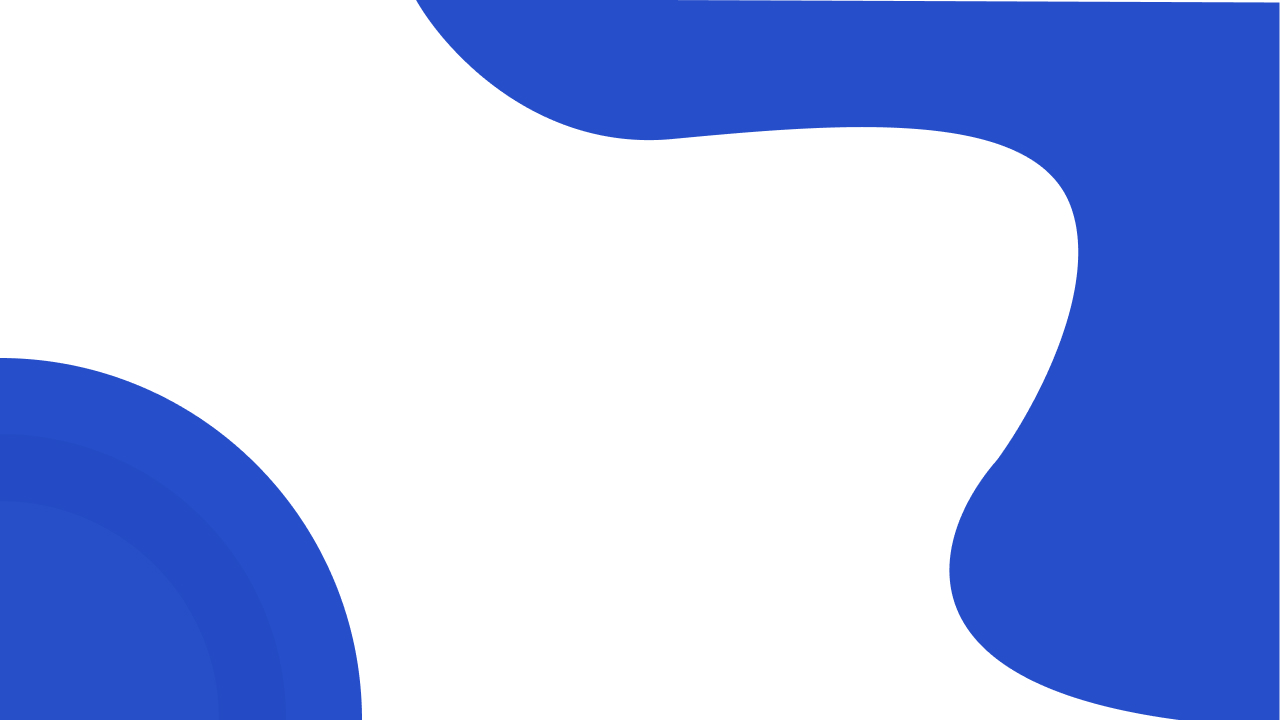
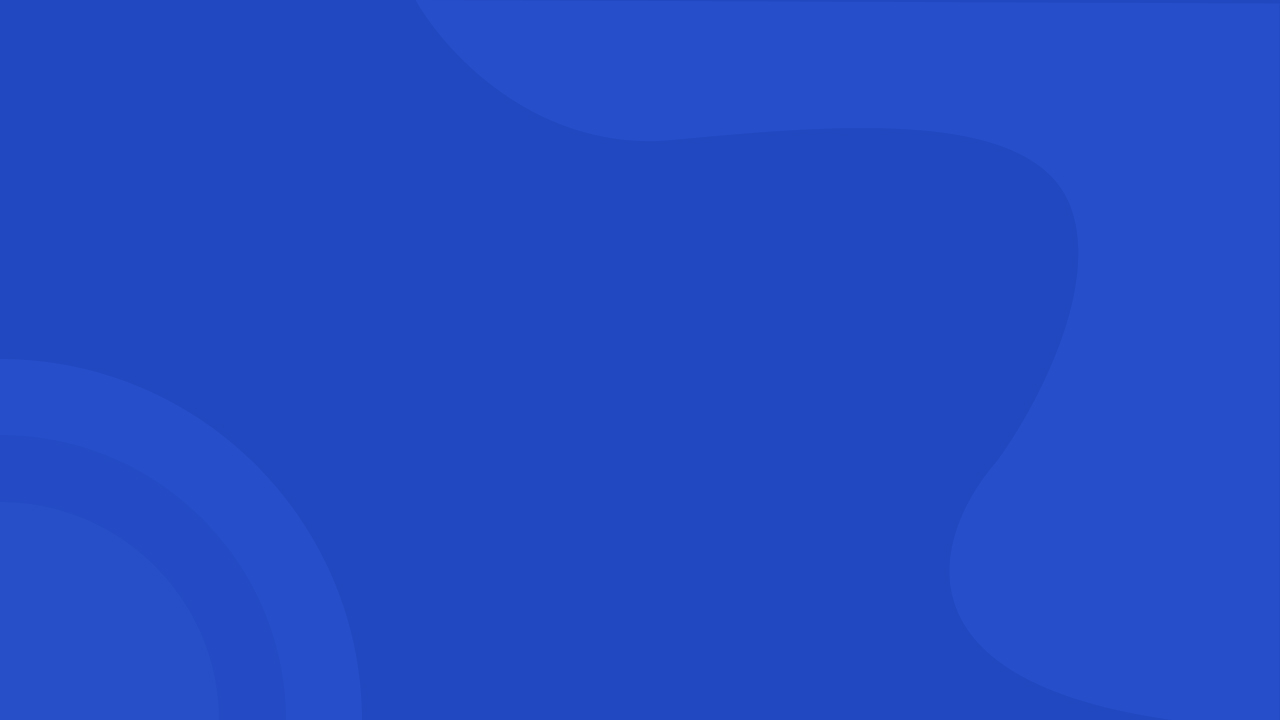
add check form

diff --git a/app/css/style.min.css b/app/css/style.min.css
@@ -1,1 +1,1 @@
-html{box-sizing:border-box}*,*::after,*::before{box-sizing:inherit}ul,ol{padding:0;list-style:none}body,h1,h2,h3,h4,h5,h6,p,ul,ol,li,figure,figcaption,blockquote,dl,dd{margin:0;font:inherit}li{list-style:none}img{max-width:100%;display:block}input,button,textarea,select{font:inherit;outline-color:rgba(0,0,0,0);padding:0}button{background-color:rgba(0,0,0,0);border:none;cursor:pointer;color:inherit}input{border:none;background-color:rgba(0,0,0,0);border:none;color:inherit}a{text-decoration:none;color:inherit;outline-color:rgba(0,0,0,0)}address{font-style:normal}body{font-size:16px;color:#fff;min-height:100vh;font-weight:400;background-color:#2148c0;font-family:"Raleway",sans-serif}.login,.register{height:100vh;background-image:url("../images/bg.png");background-position:center;background-size:cover;background-repeat:no-repeat;background-color:#2148c0}.register{background-color:#8e21c0}.container{margin:0 auto;padding:0 15px;max-width:300px;position:relative;top:50%;-webkit-transform:translateY(-50%);-ms-transform:translateY(-50%);transform:translateY(-50%);text-align:center}.title{font-size:72px;font-weight:700;text-transform:uppercase;margin-bottom:70px}.form{width:100%}.form__inner{margin:40px 0}.input{width:100%;padding:12px;padding-left:0;outline:rgba(0,0,0,0)}.input::-webkit-input-placeholder{text-transform:uppercase;font-size:14px;color:#fff;-webkit-transition:color .3s;transition:color .3s}.input::-moz-placeholder{text-transform:uppercase;font-size:14px;color:#fff;-moz-transition:color .3s;transition:color .3s}.input:-ms-input-placeholder{text-transform:uppercase;font-size:14px;color:#fff;-ms-transition:color .3s;transition:color .3s}.input::-ms-input-placeholder{text-transform:uppercase;font-size:14px;color:#fff;-ms-transition:color .3s;transition:color .3s}.input::placeholder{text-transform:uppercase;font-size:14px;color:#fff;-webkit-transition:color .3s;transition:color .3s}.input:focus::-webkit-input-placeholder{color:rgba(0,0,0,0)}.input:focus::-moz-placeholder{color:rgba(0,0,0,0)}.input:focus:-ms-input-placeholder{color:rgba(0,0,0,0)}.input:focus::-ms-input-placeholder{color:rgba(0,0,0,0)}.input:focus::placeholder{color:rgba(0,0,0,0)}.label{display:-webkit-box;display:-ms-flexbox;display:flex;-webkit-box-align:center;-ms-flex-align:center;align-items:center;border:1px solid #fff;border-radius:4px}.label:not(:last-child){margin-bottom:20px}.label::before{content:"";display:inline-block;background-position:center;background-repeat:no-repeat;background-size:contain;width:20px;height:20px;margin:12px;margin-right:19px}.label--name::before{background-image:url("../images/user.svg")}.label--pass::before{background-image:url("../images/lock.svg")}.label--email::before{background-image:url("../images/email.svg")}.btn{width:100%;padding:12px;text-align:center;background-color:#fff;border-radius:4px;color:#2148c0;margin-top:40px;margin-bottom:10px;font-weight:700;text-transform:uppercase}.link{display:-webkit-box;display:-ms-flexbox;display:flex;-webkit-box-align:center;-ms-flex-align:center;align-items:center;-webkit-transition:-webkit-transform .5s;transition:-webkit-transform .5s;transition:transform .5s;transition:transform .5s,-webkit-transform .5s}.link__icon{fill:#fff;margin-left:5px;opacity:0;-webkit-transition:opacity .5s;transition:opacity .5s}.link:hover{-webkit-transform:translateX(10px);-ms-transform:translateX(10px);transform:translateX(10px)}.link:hover .link__icon{opacity:1}.register .link{-webkit-box-pack:end;-ms-flex-pack:end;justify-content:flex-end}.register .link__icon{margin-right:5px;-webkit-transform:rotate(180deg);-ms-transform:rotate(180deg);transform:rotate(180deg)}.register .link:hover{-webkit-transform:translateX(-10px);-ms-transform:translateX(-10px);transform:translateX(-10px)}.register .link:hover .link__icon{opacity:1}
+html{box-sizing:border-box}*,*::after,*::before{box-sizing:inherit}ul,ol{padding:0;list-style:none}body,h1,h2,h3,h4,h5,h6,p,ul,ol,li,figure,figcaption,blockquote,dl,dd{margin:0;font:inherit}li{list-style:none}img{max-width:100%;display:block}input,button,textarea,select{font:inherit;outline-color:rgba(0,0,0,0);padding:0}button{background-color:rgba(0,0,0,0);border:none;cursor:pointer;color:inherit}input{border:none;background-color:rgba(0,0,0,0);border:none;color:inherit}a{text-decoration:none;color:inherit;outline-color:rgba(0,0,0,0)}address{font-style:normal}body{font-size:16px;color:#fff;min-height:100vh;font-weight:400;background-color:#2148c0;font-family:"Raleway",sans-serif}.wrapper{position:relative;background-position:center;background-size:cover;background-repeat:no-repeat;height:100vh;overflow:hidden}.wrapper::before,.wrapper::after{content:"";background-position:center;background-size:cover;background-repeat:no-repeat;position:absolute;width:100%;height:100%;z-index:-10;-webkit-transition:opacity .5s;transition:opacity .5s}.wrapper::before{background-image:url("../images/bg.jpg")}.wrapper::after{background-image:url("../images/bg2.jpg");opacity:0}.create-active::before{opacity:0}.create-active::after{opacity:1}.login,.register{height:100vh;position:absolute;top:0;left:50%;-webkit-transform:translateX(-50%);-ms-transform:translateX(-50%);transform:translateX(-50%);max-width:300px;width:100%;-webkit-transition:opacity .5s,-webkit-transform .5s;transition:opacity .5s,-webkit-transform .5s;transition:transform .5s,opacity .5s;transition:transform .5s,opacity .5s,-webkit-transform .5s}.container{margin:0 auto;padding:0 15px;max-width:300px;position:relative;top:50%;-webkit-transform:translateY(-50%);-ms-transform:translateY(-50%);transform:translateY(-50%);text-align:center}.title{font-size:72px;font-weight:700;text-transform:uppercase;margin-bottom:70px}.form{width:100%}.form__inner{margin:40px 0}.input{width:100%;padding:12px;padding-left:0;outline:rgba(0,0,0,0)}.input::-webkit-input-placeholder{text-transform:uppercase;font-size:14px;color:#fff;-webkit-transition:color .3s;transition:color .3s}.input::-moz-placeholder{text-transform:uppercase;font-size:14px;color:#fff;-moz-transition:color .3s;transition:color .3s}.input:-ms-input-placeholder{text-transform:uppercase;font-size:14px;color:#fff;-ms-transition:color .3s;transition:color .3s}.input::-ms-input-placeholder{text-transform:uppercase;font-size:14px;color:#fff;-ms-transition:color .3s;transition:color .3s}.input::placeholder{text-transform:uppercase;font-size:14px;color:#fff;-webkit-transition:color .3s;transition:color .3s}.input:focus::-webkit-input-placeholder{color:rgba(0,0,0,0)}.input:focus::-moz-placeholder{color:rgba(0,0,0,0)}.input:focus:-ms-input-placeholder{color:rgba(0,0,0,0)}.input:focus::-ms-input-placeholder{color:rgba(0,0,0,0)}.input:focus::placeholder{color:rgba(0,0,0,0)}.label{display:-webkit-box;display:-ms-flexbox;display:flex;-webkit-box-align:center;-ms-flex-align:center;align-items:center;border:1px solid #fff;border-radius:4px}.label:not(:last-child){margin-bottom:20px}.label::before{content:"";display:inline-block;background-position:center;background-repeat:no-repeat;background-size:contain;width:20px;height:20px;margin:12px;margin-right:19px}.label--name::before{background-image:url("../images/user.svg")}.label--pass::before{background-image:url("../images/lock.svg")}.label--email::before{background-image:url("../images/email.svg")}.btn{width:100%;padding:12px;text-align:center;background-color:#fff;border-radius:4px;color:#2148c0;margin-top:23px;margin-bottom:10px;font-weight:700;text-transform:uppercase}.btn__create{color:#8e21c0}.link{display:-webkit-box;display:-ms-flexbox;display:flex;-webkit-box-align:center;-ms-flex-align:center;align-items:center;-webkit-transition:-webkit-transform .5s;transition:-webkit-transform .5s;transition:transform .5s;transition:transform .5s,-webkit-transform .5s}.link__icon{fill:#fff;margin-left:5px;opacity:0;-webkit-transition:opacity .5s;transition:opacity .5s}.link:hover{-webkit-transform:translateX(10px);-ms-transform:translateX(10px);transform:translateX(10px)}.link:hover .link__icon{opacity:1}.register .link{-webkit-box-pack:end;-ms-flex-pack:end;justify-content:flex-end}.register .link__icon{margin-right:5px;-webkit-transform:rotate(180deg);-ms-transform:rotate(180deg);transform:rotate(180deg)}.register .link:hover{-webkit-transform:translateX(-10px);-ms-transform:translateX(-10px);transform:translateX(-10px)}.register .link:hover .link__icon{opacity:1}.create-hidden{-webkit-transform:translateX(70%);-ms-transform:translateX(70%);transform:translateX(70%);opacity:0}.login-hidden{-webkit-transform:translateX(-150%);-ms-transform:translateX(-150%);transform:translateX(-150%);opacity:0}.error{font-size:14px;color:#ddad61;text-align:left;font-weight:700;height:17px}

diff --git a/app/index.html b/app/index.html
@@ -14,63 +14,70 @@
 
 <body>
 
-  <!-- <div class="login">
-    <div class="container">
-      <h1 class="title">
-        log in
-      </h1>
-      <form action="#" class="form">
-        <label class="label label--name">
-          <input type="text" class="input" placeholder="username">
-        </label>
-        <label class="label label--pass">
-          <input type="password" class="input" placeholder="password">
-        </label>
-        <button class="btn" type="submit">login</button>
-      </form>
-      <a href="#" class="link">create an account
-        <svg class="link__icon" version="1.1" xmlns="http://www.w3.org/2000/svg" width="17" height="17" viewBox="0 0 32 32">
-          <path
-            d="M19.414 27.414l10-10c0.781-0.781 0.781-2.047 0-2.828l-10-10c-0.781-0.781-2.047-0.781-2.828 0s-0.781 2.047 0 2.828l6.586 6.586h-19.172c-1.105 0-2 0.895-2 2s0.895 2 2 2h19.172l-6.586 6.586c-0.39 0.39-0.586 0.902-0.586 1.414s0.195 1.024 0.586 1.414c0.781 0.781 2.047 0.781 2.828 0z">
-          </path>
-        </svg>
-      </a>
-    </div>
-  </div> -->
+  <div class="wrapper">
 
-  <div class="register">
-    <div class="container">
-      <h1 class="title">
-        create
-      </h1>
-      <form action="#" class="form">
-        <label class="label label--name">
-          <input type="text" class="input" placeholder="username">
-        </label>
-        <div class="form__inner">
-          <label class="label label--pass">
-            <input type="password" class="input" placeholder="password">
+    <div class="login">
+      <div class="container">
+        <h1 class="title">
+          log in
+        </h1>
+        <form action="#" class="form">
+          <label class="label label--name">
+            <input type="text" class="input" placeholder="username">
           </label>
           <label class="label label--pass">
             <input type="password" class="input" placeholder="password">
           </label>
-        </div>
-        <label class="label label--email">
-          <input type="email" class="input" placeholder="email">
-        </label>
 
-        <button class="btn" type="submit">login</button>
-      </form>
-      <a href="#" class="link">
-        <svg class="link__icon" version="1.1" xmlns="http://www.w3.org/2000/svg" width="17" height="17"
-          viewBox="0 0 32 32">
-          <path
-            d="M19.414 27.414l10-10c0.781-0.781 0.781-2.047 0-2.828l-10-10c-0.781-0.781-2.047-0.781-2.828 0s-0.781 2.047 0 2.828l6.586 6.586h-19.172c-1.105 0-2 0.895-2 2s0.895 2 2 2h19.172l-6.586 6.586c-0.39 0.39-0.586 0.902-0.586 1.414s0.195 1.024 0.586 1.414c0.781 0.781 2.047 0.781 2.828 0z">
-          </path>
-        </svg>
-        back to login
-      </a>
+
+          <button class="btn" type="submit">login</button>
+        </form>
+        <a href="#" class="link" id="create">create an account
+          <svg class="link__icon" version="1.1" xmlns="http://www.w3.org/2000/svg" width="17" height="17"
+            viewBox="0 0 32 32">
+            <path
+              d="M19.414 27.414l10-10c0.781-0.781 0.781-2.047 0-2.828l-10-10c-0.781-0.781-2.047-0.781-2.828 0s-0.781 2.047 0 2.828l6.586 6.586h-19.172c-1.105 0-2 0.895-2 2s0.895 2 2 2h19.172l-6.586 6.586c-0.39 0.39-0.586 0.902-0.586 1.414s0.195 1.024 0.586 1.414c0.781 0.781 2.047 0.781 2.828 0z">
+            </path>
+          </svg>
+        </a>
+      </div>
     </div>
+
+    <div class="register create-hidden">
+      <div class="container">
+        <h1 class="title">
+          create
+        </h1>
+        <form action="#" class="form-create">
+          <label class="label label--name">
+            <input type="text" class="input" name="name" placeholder="username">
+          </label>
+          <div class="form__inner">
+            <label class="label label--pass">
+              <input type="password" class="input" name="pass" placeholder="password">
+            </label>
+            <label class="label label--pass">
+              <input type="password" class="input" name="repass" placeholder="password">
+            </label>
+          </div>
+          <label class="label label--email">
+            <input type="email" class="input" name="email" placeholder="email">
+          </label>
+          <p class="error"></p>
+          <button class="btn btn__create" type="submit">create account</button>
+        </form>
+        <a href="#" class="link" id="login">
+          <svg class="link__icon" version="1.1" xmlns="http://www.w3.org/2000/svg" width="17" height="17"
+            viewBox="0 0 32 32">
+            <path
+              d="M19.414 27.414l10-10c0.781-0.781 0.781-2.047 0-2.828l-10-10c-0.781-0.781-2.047-0.781-2.828 0s-0.781 2.047 0 2.828l6.586 6.586h-19.172c-1.105 0-2 0.895-2 2s0.895 2 2 2h19.172l-6.586 6.586c-0.39 0.39-0.586 0.902-0.586 1.414s0.195 1.024 0.586 1.414c0.781 0.781 2.047 0.781 2.828 0z">
+            </path>
+          </svg>
+          back to login
+        </a>
+      </div>
+    </div>
+
   </div>
 
   <script src="js/main.min.js"></script>

diff --git a/app/scss/style.scss b/app/scss/style.scss
@@ -10,19 +10,64 @@ body {
   font-family: "Raleway", sans-serif;
 }
 
-.login,
-.register {
-  height: 100vh;
-  background-image: url('../images/bg.png');
+.wrapper {
+  position: relative;
   background-position: center;
   background-size: cover;
   background-repeat: no-repeat;
-  background-color: #2148C0;
+
+  height: 100vh;
+  overflow: hidden;
+
+  &::before,
+  &::after {
+    content: '';
+    background-position: center;
+    background-size: cover;
+    background-repeat: no-repeat;
+    position: absolute;
+    width: 100%;
+    height: 100%;
+    z-index: -10;
+    transition: opacity 0.5s;
+  }
+
+  &::before {
+    background-image: url('../images/bg.jpg');
+    
+  }
+
+  &::after {
+    background-image: url('../images/bg2.jpg');
+    opacity: 0;
+  }
 }
 
-.register {
-  background-color: #8E21C0;
+.create-active {
+  &::before {
+      opacity: 0;
+    }
+  
+    &::after {
+      opacity: 1;
+    }
 }
+
+.login,
+.register {
+  height: 100vh;
+
+  position: absolute;
+  top: 0;
+  left: 50%;
+  transform: translateX(-50%);
+  max-width: 300px;
+  width: 100%;
+
+  transition: transform 0.5s, opacity 0.5s;
+}
+
+
 
 .container {
   margin: 0 auto;
@@ -119,12 +164,14 @@ body {
   background-color: #fff;
   border-radius: 4px;
   color: #2148C0;
-  margin-top: 40px;
+  margin-top: 23px;
   margin-bottom: 10px;
   font-weight: 700;
   text-transform: uppercase;
 
-
+  &__create {
+      color: #8E21C0;
+    }
 }
 
 .link {
@@ -156,14 +203,32 @@ body {
       margin-right: 5px;
       transform: rotate(180deg);
     }
-  
+
     &:hover {
       transform: translateX(-10px);
-  
+
       & .link__icon {
         opacity: 1;
       }
     }
   }
 
+}
+
+.create-hidden {
+  transform: translateX(70%);
+  opacity: 0;
+}
+
+.login-hidden {
+  transform: translateX(-150%);
+  opacity: 0;
+}
+
+.error {
+  font-size: 14px;
+  color: #ddad61;
+  text-align: left;
+  font-weight: 700;
+  height: 17px;
 }

diff --git a/app/js/main.js b/app/js/main.js
@@ -1,0 +1,55 @@
+const btnCreate = document.querySelector('#create');
+const btnLogin = document.querySelector('#login');
+const loginPage = document.querySelector('.login');
+const createPage = document.querySelector('.register');
+const formCreate = document.querySelector('.form-create');
+const wrapper = document.querySelector('.wrapper');
+
+formCreate.addEventListener('submit', checkForm);
+
+function checkForm(e) {
+  e.preventDefault();
+
+  let form = document.querySelector('.form-create');
+
+  let name = form.name.value;
+  let pass = form.pass.value;
+  let repass = form.repass.value;
+  let email = form.email.value;
+
+  let fail = '';
+
+  if (name == '' || pass == '' || email == '')
+    fail = 'error create';
+    else if (name.lenght <= 1 || name.length > 16)
+    fail = 'name error';
+    else if (pass !== repass)
+    fail = "error password";
+    else if (email.includes('@') !== true)
+    fail = "error email";
+
+
+  if (fail != '') {
+    document.querySelector('.error').innerHTML = `*${fail}`;
+  } else {
+    setTimeout(() => {
+      location.reload();
+    }, 2000);
+  }
+
+  return false;
+};
+
+btnCreate.addEventListener('click', () => {
+  loginPage.classList.add('login-hidden');
+  createPage.classList.remove('create-hidden');
+  wrapper.classList.add('create-active');
+});
+
+btnLogin.addEventListener('click', () => {
+  loginPage.classList.remove('login-hidden');
+  createPage.classList.add('create-hidden');
+  wrapper.classList.remove('create-active');
+});
+
+

diff --git a/app/js/main.min.js b/app/js/main.min.js
@@ -1,0 +1,1 @@
+const btnCreate=document.querySelector("#create"),btnLogin=document.querySelector("#login"),loginPage=document.querySelector(".login"),createPage=document.querySelector(".register"),formCreate=document.querySelector(".form-create"),wrapper=document.querySelector(".wrapper");function checkForm(e){e.preventDefault();let r=document.querySelector(".form-create"),t=r.name.value,a=r.pass.value,c=r.repass.value,o=r.email.value,n="";return""==t||""==a||""==o?n="error create":t.lenght<=1||t.length>16?n="name error":a!==c?n="error password":!0!==o.includes("@")&&(n="error email"),""!=n?document.querySelector(".error").innerHTML=`*${n}`:setTimeout((()=>{location.reload()}),2e3),!1}formCreate.addEventListener("submit",checkForm),btnCreate.addEventListener("click",(()=>{loginPage.classList.add("login-hidden"),createPage.classList.remove("create-hidden"),wrapper.classList.add("create-active")})),btnLogin.addEventListener("click",(()=>{loginPage.classList.remove("login-hidden"),createPage.classList.add("create-hidden"),wrapper.classList.remove("create-active")}));
